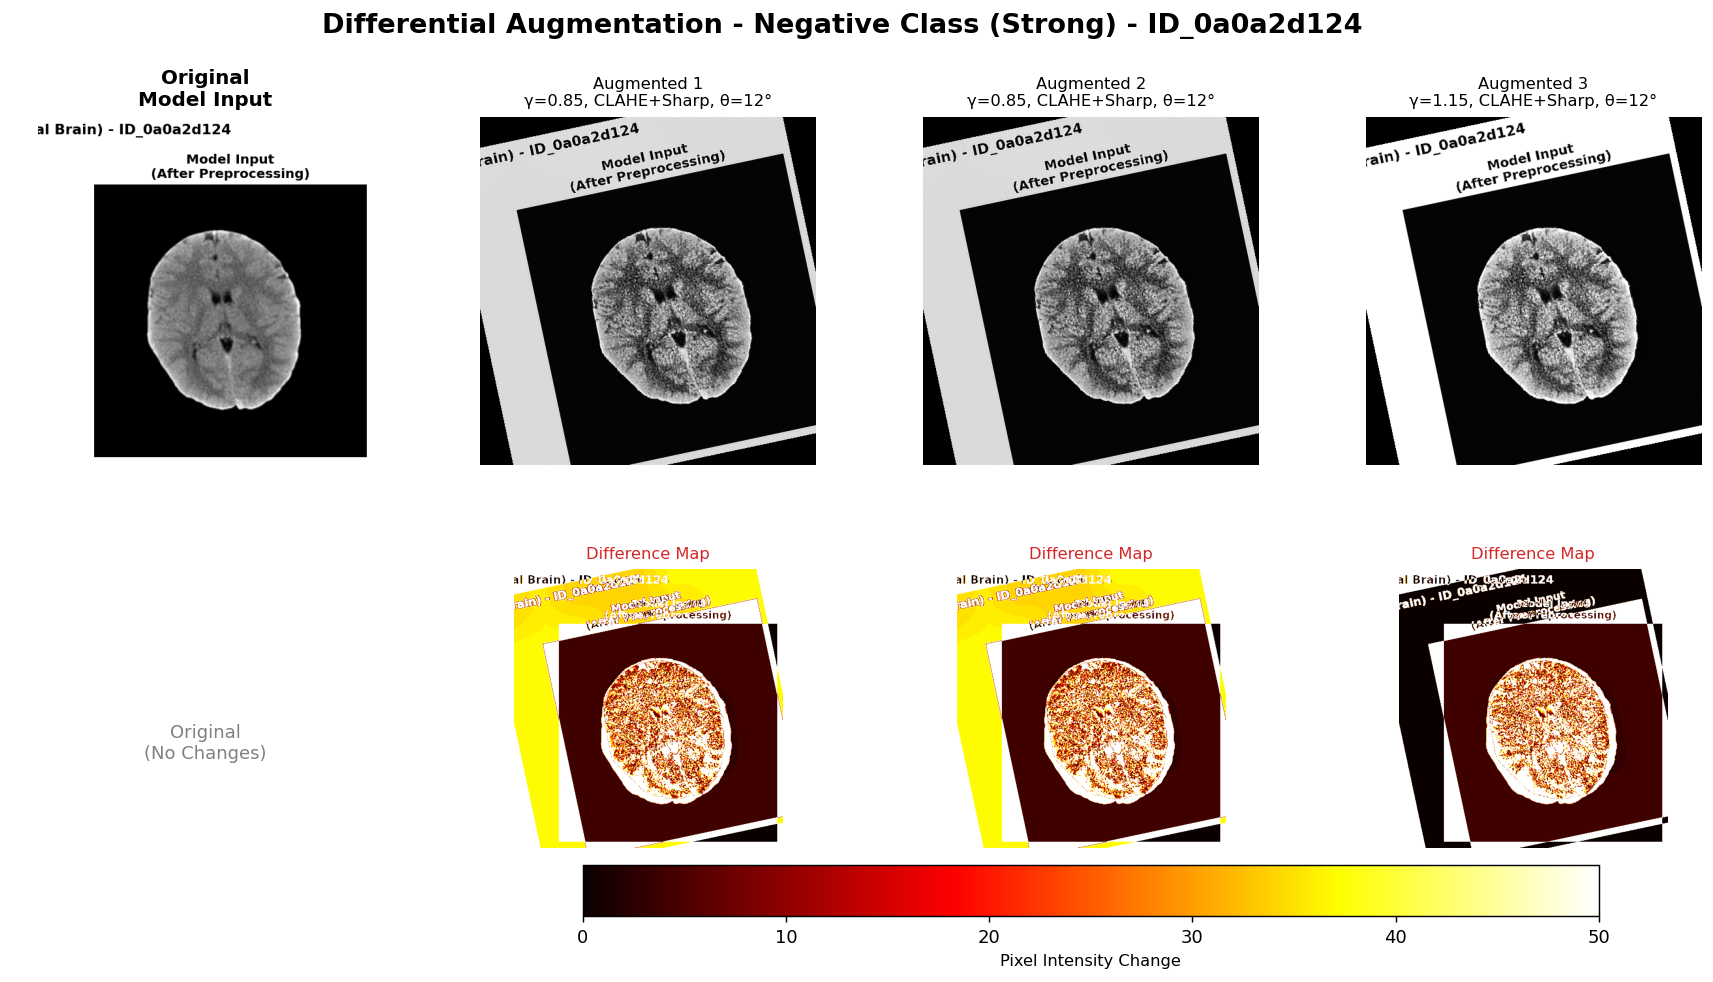
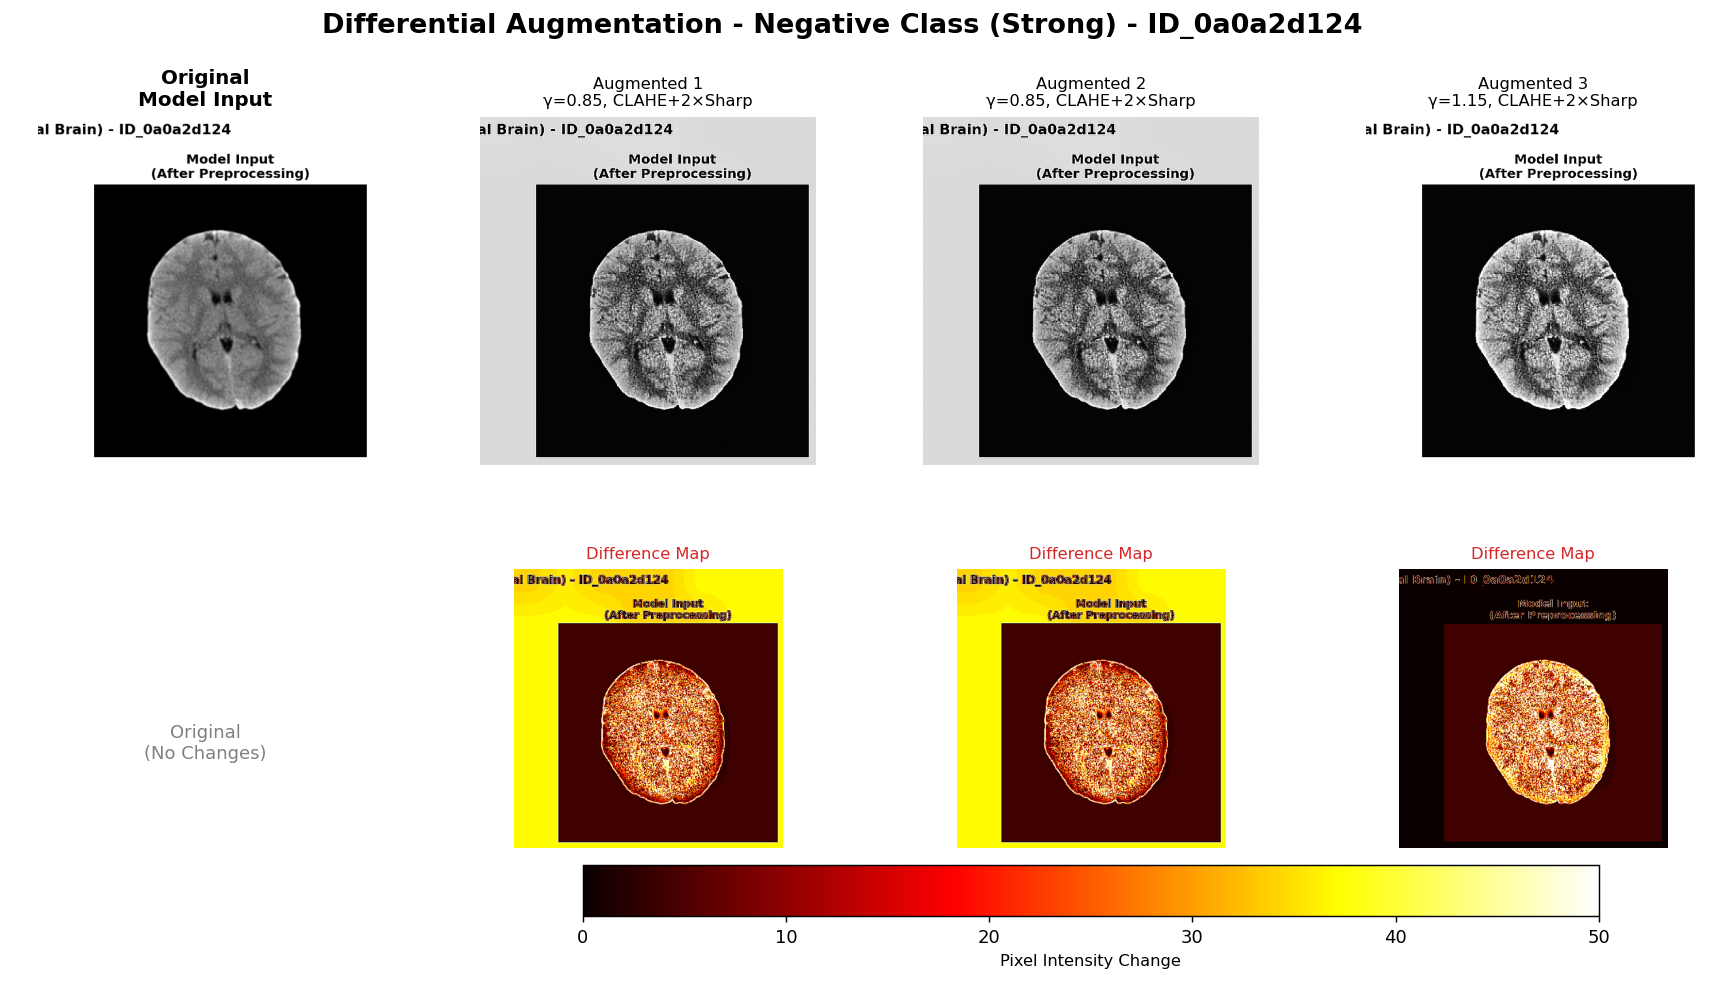
Remove rotation from augmentation examples to show effects clearly

diff --git a/README.md b/README.md
@@ -48,13 +48,13 @@ The training pipeline applies **differential augmentation** based on class:
 
 ![Positive Sample Augmentation Examples](docs/images/augmentation_positive.png)
 
-*Top row: Original model input + 3 augmented versions with mild transforms (γ=brightness, blur, rotation 7°). Bottom row: Difference heatmaps (red = changed pixels) showing minimal modification to preserve lesion features.*
+*Top row: Original model input + 3 augmented versions with mild transforms (γ=brightness adjustment, gentle blur). Bottom row: Difference heatmaps (red = changed pixels) showing minimal modification to preserve lesion features.*
 
 **Negative Sample Augmentation (Strong)**
 
 ![Negative Sample Augmentation Examples](docs/images/augmentation_negative.png)
 
-*Top row: Original model input + 3 augmented versions with strong transforms (γ=brightness, CLAHE local contrast, double sharpening, rotation 12°). Bottom row: Difference heatmaps showing extensive modifications to create harder negative samples.*
+*Top row: Original model input + 3 augmented versions with strong transforms (γ=brightness adjustment, CLAHE local contrast enhancement, 2× sharpening). Bottom row: Difference heatmaps showing extensive modifications to create harder negative samples.*
 
 ### Preprocessing Steps Explained
 
